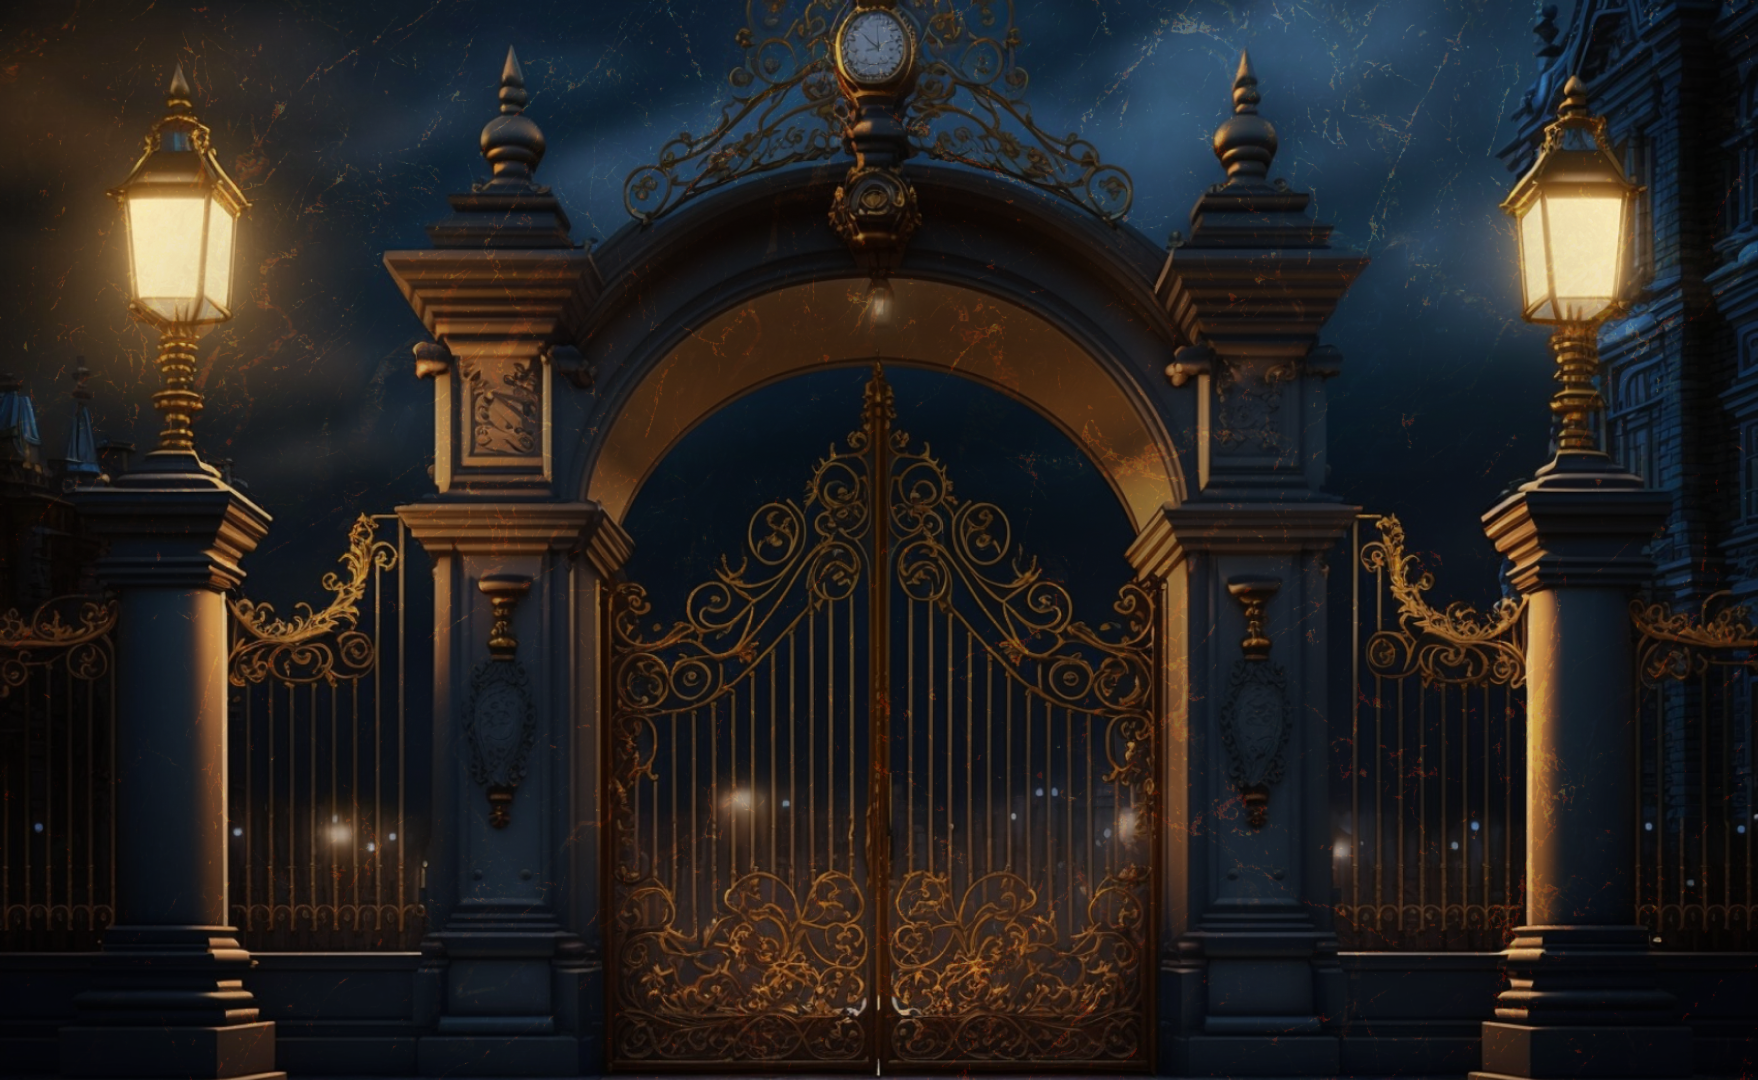
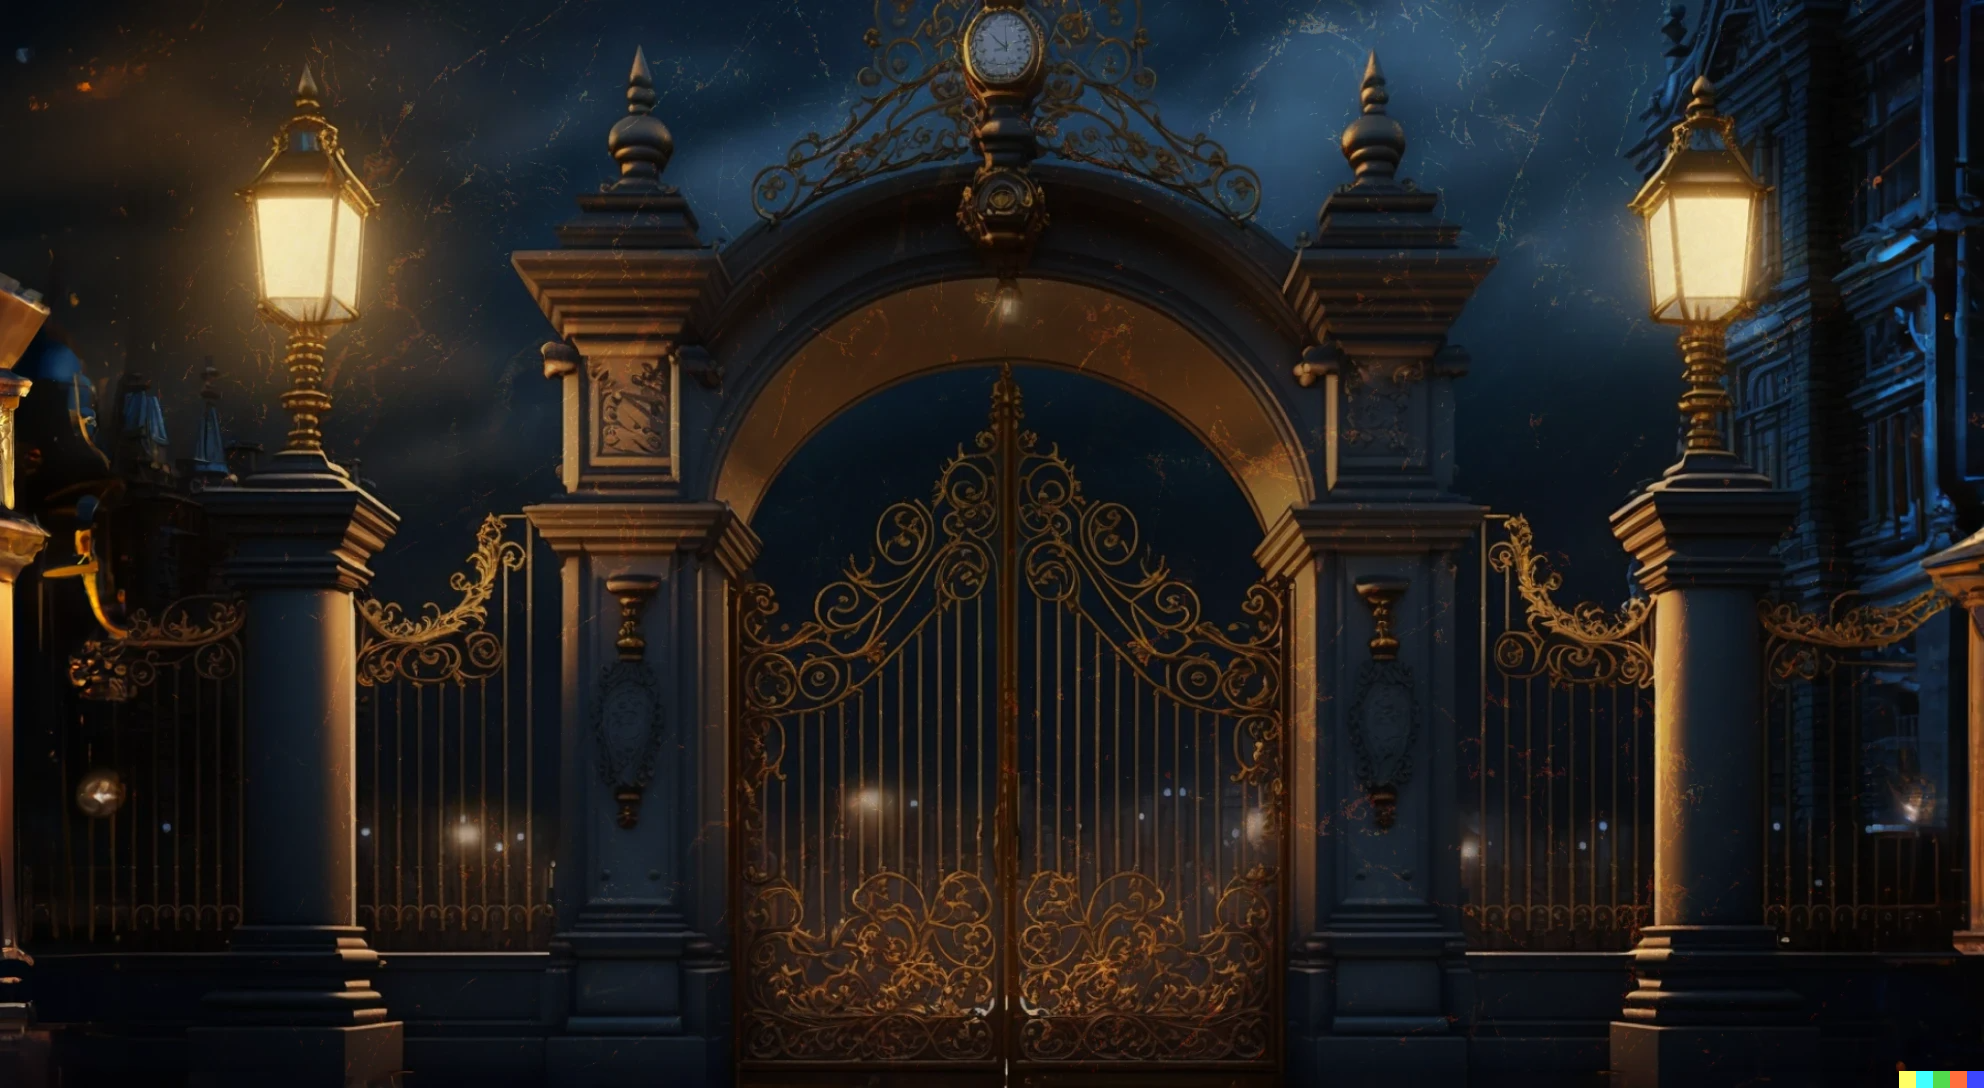
fix: changed bg image

diff --git a/sections/Home.jsx b/sections/Home.jsx
@@ -51,7 +51,7 @@ const Home = () => {
         alt=""
         width={1920}
         height={1080}
-        className="absolute w-full h-full top-0 object-cover"
+        className="absolute w-full h-full top-0 object-cover object-top"
         priority={true}
       />
       <div className="relative py-16 flex justify-center items-center flex-col gap-10 md:gap-4 w-[90%] md:w-[50%] bg-[radial-gradient(62.49%_50%_at_50%_50%,#1F1F1F_0%,#0B0B0B_100%)] border-[1px] rounded-[9px] border-[#ffbf00]">
